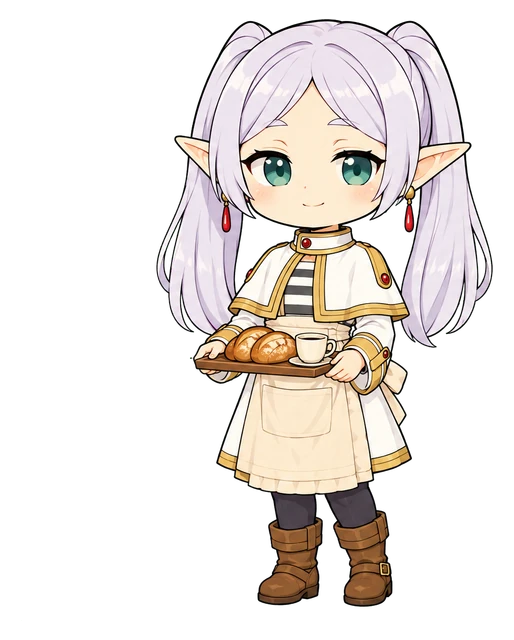
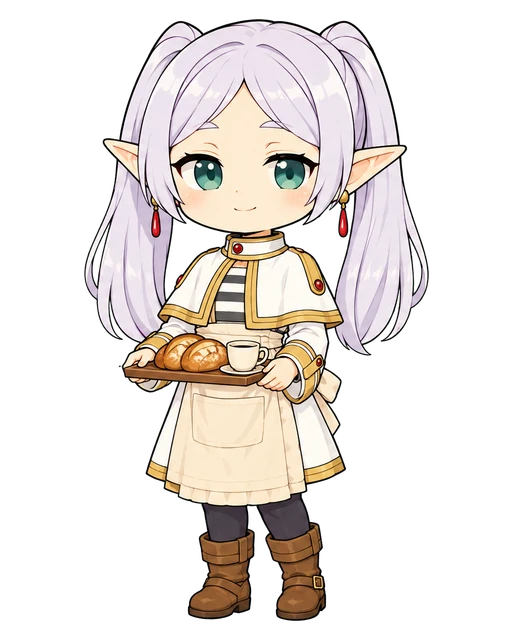
Character QA: chibi residents stand on the feet line, host sheets lose their pink rim
Seven in-world chibis (프리렌, 로제, 신짜장, 잔나, 럭스, 츠나데, 야니네코)
floated 2-3% above the friends' feet line and stood off centre: a few stray
opaque pixels in the bottom-left corner of every generated original stretched
the slicer's opaque box. opaqueBox now only counts connected pieces of at
least 400 px, so every chibi fills 94% with its soles on the 97% line.

허 선장, 문 사장 and 결 목수's host sheets kept a magenta line around the
hair, hands and props: a new 'hosts' mode unmixes and despills the magenta
cast within 6 px of transparency before encoding the WebP.

Claude-Session: https://claude.ai/code/session_01HULavEv6pBxEfDeGCKxeDu

diff --git a/app/lounge-npc-chibi.ts b/app/lounge-npc-chibi.ts
@@ -10,7 +10,7 @@ import type { NpcId } from './lounge-npc-data.ts';
 
 export type NpcChibi = { asset: string; w: number; h: number };
 export const NPC_CHIBI: Partial<Record<NpcId, NpcChibi>> = {
-  frieren: { asset: A.chibi_frieren, w: 514, h: 640 },
+  frieren: { asset: A.chibi_frieren, w: 512, h: 640 },
   nasera: { asset: A.chibi_nasera, w: 512, h: 640 },
   rose: { asset: A.chibi_rose, w: 512, h: 640 },
   gwen: { asset: A.chibi_gwen, w: 512, h: 640 },
